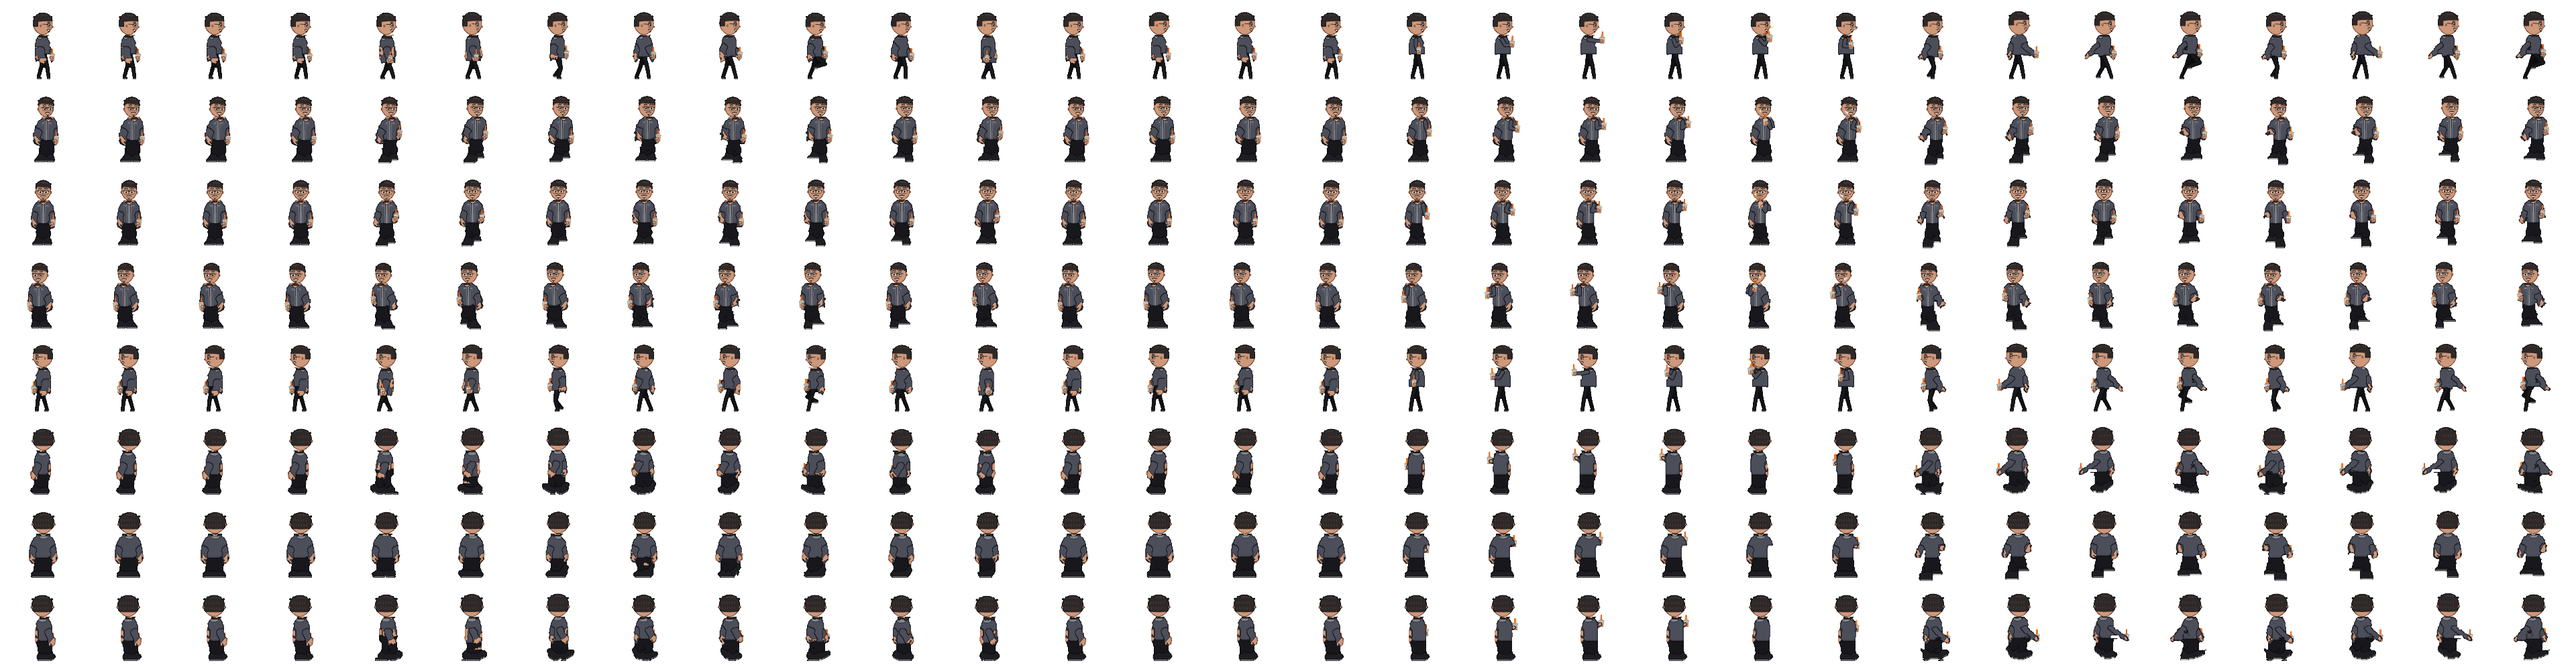
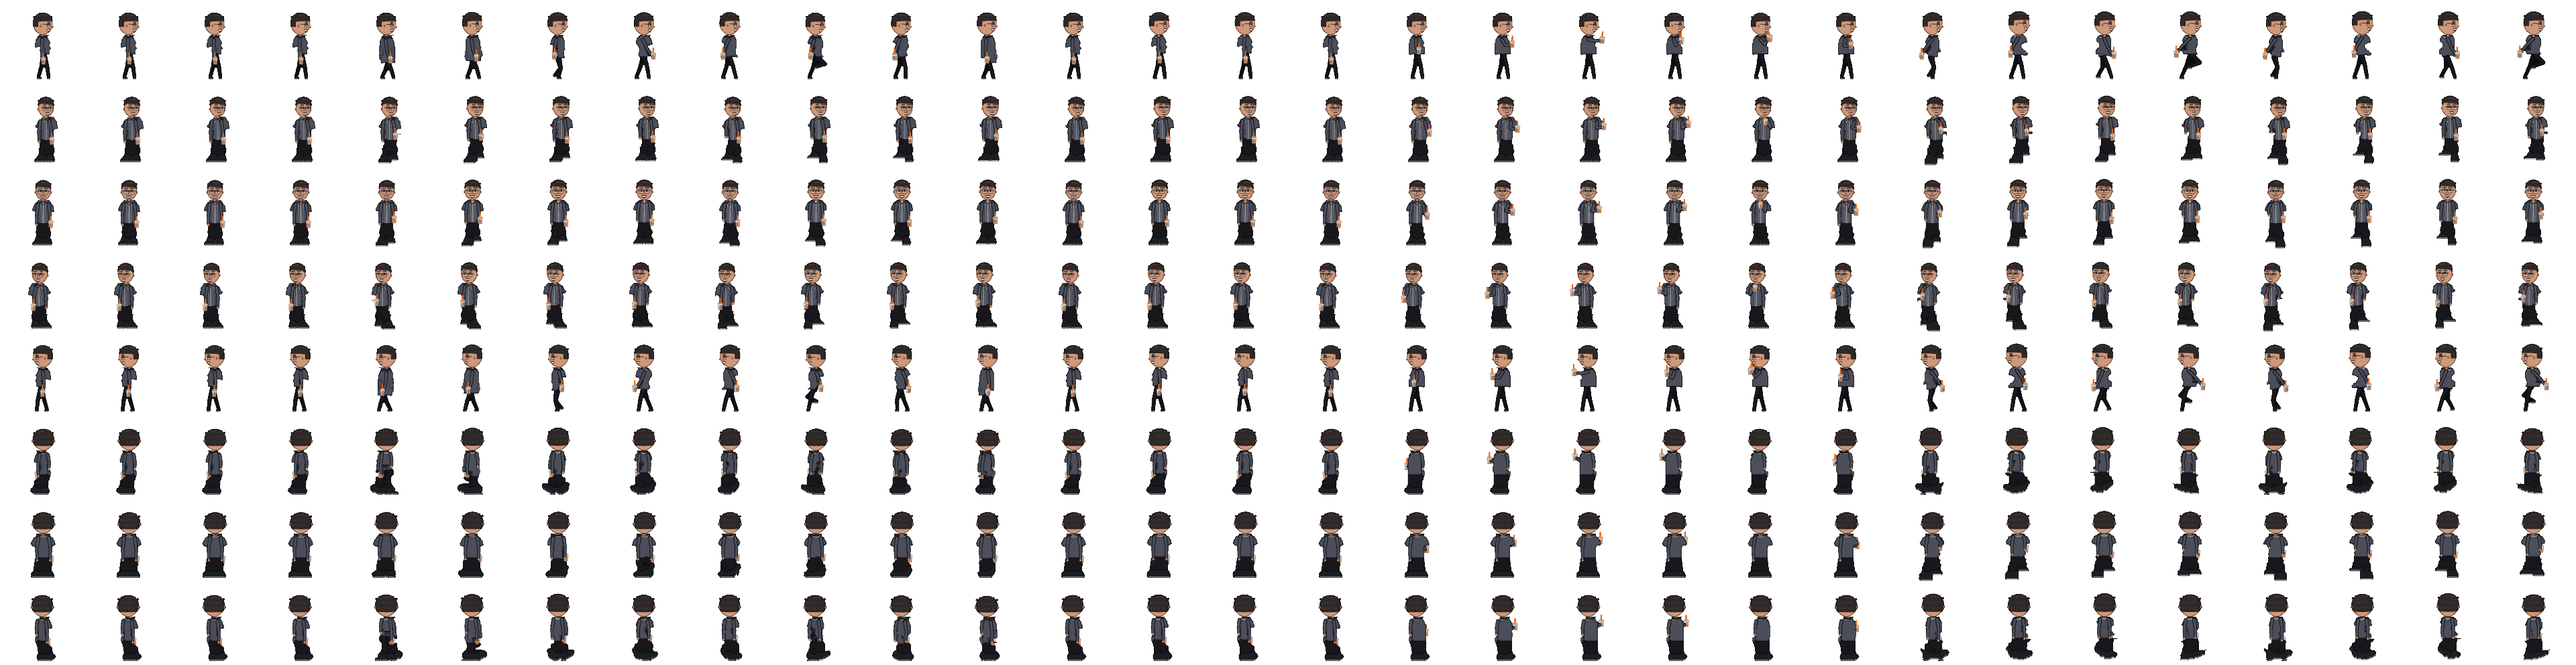
Billy: neck + clean shoulders, drawn natural sleeves, no puff/sparkle, slurp-only tag sound on the sip frame (450 ms), happy squint eyes, bigger smile, upper-lip mustache, no beard

diff --git a/phaser-tag-client/src/audio.ts b/phaser-tag-client/src/audio.ts
@@ -14,6 +14,9 @@
 
 import type { Mood, Settings } from "./settings";
 
+/** Billy's slurp lands on the sip frame of the tag animation (see "billySwing"). */
+export const BILLY_SLURP_DELAY_S = 0.45;
+
 export type Sfx = "swing" | "hit" | "join" | "leave" | "step" | "bananaStep" | "trexStep" | "tuxedoStep" | "pirateStep" | "pirateSwing" | "pharaohStep" | "pharaohSwing" | "spacemanStep" | "spacemanSwing" | "wizardStep" | "wizardSwing" | "centaurStep" | "centaurSwing" | "tennisStep" | "tennisSwing" | "cobraStep" | "cobraSwing" | "billySwing" | "click" | "blip" | "secret";
 
 const CROSSFADE_S = 1.5;
@@ -830,13 +833,18 @@ export class GameAudio {
         syn.noise(t + 0.12, { filter: "bandpass", freq: 1500, q: 3, gain: 0.14 * v, attack: 0.001, release: 0.04 });
         break;
       }
-      case "billySwing": { // Billy's tag: arm whoosh, then a gurgly straw slurp and a soft "ahh"
-        syn.noise(t, { filter: "bandpass", freq: 450, sweepTo: 2000, q: 1.2, gain: 0.22 * v, attack: 0.03, release: 0.12 });
-        for (let i = 0; i < 4; i++) {
-          const dt = 0.42 + i * 0.07 + Math.random() * 0.02;
-          syn.noise(t + dt, { filter: "bandpass", freq: 900 + i * 260, sweepTo: 1500 + i * 300, q: 3, gain: 0.1 * v, attack: 0.008, release: 0.05 });
+      case "billySwing": { // Billy's tag: just a straw slurp, on the frame the straw reaches his mouth
+        // Tag anim (src/kid.ts): 16 fps (62.5 ms/frame) + extra holds [0, 0, 30, 170, 30, 0] ms,
+        // so the sip frame (tag frame 4, sheet column 20) starts 62.5 + 62.5 + 92.5 + 232.5 = 450 ms in.
+        const s0 = t + BILLY_SLURP_DELAY_S;
+        // wet sucking hiss rising in pitch, broken into gurgles
+        syn.noise(s0, { filter: "bandpass", freq: 700, sweepTo: 1700, q: 2.5, gain: 0.12 * v, attack: 0.015, release: 0.22 });
+        for (let i = 0; i < 5; i++) {
+          const dt = i * 0.045 + Math.random() * 0.012;
+          syn.noise(s0 + dt, { filter: "bandpass", freq: 800 + i * 220, sweepTo: 1300 + i * 260, q: 4, gain: 0.11 * v, attack: 0.004, release: 0.035 });
         }
-        syn.tone(t + 0.78, 330, { type: "sine", gain: 0.035 * v, attack: 0.04, hold: 0.08, release: 0.18, glideTo: 250 });
+        // little air pop at the end as the straw clears
+        syn.noise(s0 + 0.24, { filter: "bandpass", freq: 2400, q: 3, gain: 0.07 * v, attack: 0.002, release: 0.03 });
         break;
       }
       case "pharaohSwing": { // Pharaoh James's tag: cloth whoosh plus a short muted horn (open fifth)

diff --git a/phaser-tag-client/tools/make_billy_skin.py b/phaser-tag-client/tools/make_billy_skin.py
@@ -18,8 +18,9 @@ Pipeline (same family as make_tennis_skin.py):
   * a clear iced coffee (tan coffee, ice, dome lid, orange straw, small
     orange/pink logo dot) in his near hand in every frame; on tag the near arm
     is redrawn as one solid limb from the shoulder: it reaches the cup out in
-    the facing direction, pulls it back, sips from the straw and lets out a
-    small "ahh" puff;
+    the facing direction, pulls it back and sips from the straw (tag frame 4;
+    no puff or sparkle). The other arms are drawn jacket sleeves from the
+    shoulders to James's hand positions, and a short neck joins head and collar;
   * box-downscaled to 1x and solidified (no holes).
 
 Requires: Python 3 + Pillow + numpy.  Usage:
@@ -412,7 +413,34 @@ def rebuild_head(L, rgb, union, direction, wp, eyes_o):
     hs = Image.fromarray((hair * 255).astype(np.uint8)).filter(ImageFilter.MaxFilter(3))
     hline = (np.asarray(hs) > 127) & ~hair & skinm & allm
     rgb[hline] = LINE
-    # the neck: chin line over the neck top
+    # the neck: a short skin column from under the jaw into the jacket
+    # collar; any other skin below the chin (James's warped shoulders) is
+    # jacket
+    below = (Yo > bot - 0.8) & ~allm
+    stray = below & (L == SKIN)
+    L[stray] = JACKET
+    rgb[stray] = COL[JACKET]
+    ncx = cx - fx * (0.6 if direction in PROFILE else -0.2)
+    nhw = 2.0 if direction in PROFILE else 2.5
+    J = np.isin(L, (JACKET, SLEEVE)) & (np.abs(Xo - ncx) < nhw)
+    jr = np.nonzero(J.any(1))[0]
+    jt = (jr[jr > S(bot - 2)].min() / SS) if (jr > S(bot - 2)).any() else bot + 2.5
+    if direction not in BACK:
+        neck_t = bot - 2.5
+        neck_b = max(jt + 1.2, bot + 1.6)
+        neck = (np.abs(Xo - ncx) < nhw) & (Yo > neck_t) & (Yo < neck_b) & ~allm
+        L[neck] = SKIN
+        union |= neck
+        rgb[neck] = COL[SKIN]
+        edge = neck & (np.abs(Xo - ncx) > nhw - 0.75)
+        rgb[edge] = SKIN_LINE
+        sh_ = neck & (Yo < bot + 1.3)
+        rgb[sh_ & ~edge] = SKIN_SHADE
+    else:
+        neck = (np.abs(Xo - ncx) < nhw) & (Yo > bot - 2.5) & (Yo < jt + 1.0) & ~allm & ~union
+        L[neck] = SKIN
+        union |= neck
+        rgb[neck] = SKIN_SHADE
     return allm
 
 
@@ -509,8 +537,8 @@ def smile_eye(d, ex, ey, hw, side=0, ry=1.9, half=False, fx=0):
     img = d._image
     n = 15
     ts = np.linspace(-1, 1, n)
-    up = [(ex + hw * t, ey - ry * (1 - t * t) ** 0.6 - 0.25 * side * t) for t in ts]
-    lo = [(ex + hw * t, ey + ry * 0.85 * (1 - t * t) ** 0.8 - 0.1 * side * t) for t in ts]
+    up = [(ex + hw * t, ey - ry * 1.05 * (1 - t * t) ** 0.6 - 0.2 * side * t) for t in ts]
+    lo = [(ex + hw * t, ey + ry * 0.15 - ry * 0.3 * (1 - t * t) ** 0.8 - 0.1 * side * t) for t in ts]
     poly = [(S(x), S(y)) for x, y in up + lo[::-1]]
     m = Image.new("L", img.size, 0)
     ImageDraw.Draw(m).polygon(poly, fill=255)
@@ -519,16 +547,20 @@ def smile_eye(d, ex, ey, hw, side=0, ry=1.9, half=False, fx=0):
     ld.polygon(poly, fill=(250, 248, 244, 255))
     ix = ex + (0.35 * fx if half else 0.15 * fx)
     r = ry * 0.62
-    ld.ellipse([S(ix - r), S(ey - r + 0.1), S(ix + r), S(ey + r + 0.1)], fill=(84, 52, 34, 255))
-    ld.ellipse([S(ix - r * 0.55), S(ey - r * 0.55 + 0.1), S(ix + r * 0.55), S(ey + r * 0.55 + 0.1)], fill=(16, 12, 12, 255))
-    ld.ellipse([S(ix - r * 0.55 - 0.15), S(ey - r * 0.6), S(ix - r * 0.55 + 0.45), S(ey - r * 0.6 + 0.6)], fill=(255, 255, 255, 255))
+    iy = ey - ry * 0.45
+    ld.ellipse([S(ix - r), S(iy - r), S(ix + r), S(iy + r)], fill=(84, 52, 34, 255))
+    ld.ellipse([S(ix - r * 0.55), S(iy - r * 0.55), S(ix + r * 0.55), S(iy + r * 0.55)], fill=(16, 12, 12, 255))
+    ld.ellipse([S(ix - r * 0.55 - 0.15), S(iy - r * 0.7), S(ix - r * 0.55 + 0.45), S(iy - r * 0.7 + 0.6)], fill=(255, 255, 255, 255))
     la = np.asarray(lay).copy()
     la[..., 3] = np.minimum(la[..., 3], np.asarray(m))
     img.alpha_composite(Image.fromarray(la, "RGBA"))
     d2 = ImageDraw.Draw(img)
     # bold soft upper lid, thin lower line
     d2.line([(S(x), S(y - 0.15)) for x, y in up], fill=EYE, width=max(1, int(S(0.75))), joint="curve")
-    d2.line([(S(x), S(y)) for x, y in lo[3:-3]], fill=SKIN_LINE, width=max(1, int(S(0.35))), joint="curve")
+    d2.line([(S(x), S(y + 0.1)) for x, y in lo[1:-1]], fill=EYE, width=max(1, int(S(0.5))), joint="curve")
+    # smiling cheek crease under the eye
+    d2.line([(S(ex + hw * t * 0.8), S(ey + ry * 0.75 - ry * 0.25 * (1 - t * t))) for t in ts[3:-3]],
+            fill=SKIN_LINE, width=max(1, int(S(0.35))), joint="curve")
 
 
 def draw_face(img, L, direction, eyes_o, wp, head_box):
@@ -579,19 +611,18 @@ def draw_face(img, L, direction, eyes_o, wp, head_box):
         tline(d, [(lx - hw_l, ey - 1.2), (max(x0 + 0.4, lx - hw_l - 2.4), ey - 1.5)], GLASS, 1.1)
         tline(d, [(rx + hw_r, ey - 1.2), (min(x1 - 0.4, rx + hw_r + 2.4), ey - 1.5)], GLASS, 1.1)
         # wide toothy smile
-        mw = 4.2 if fx == 0 else 3.6
+        mw = 5.0 if fx == 0 else 4.3
         def curve(y_end, y_mid, n=9):
             return [(mx + mw * t, my + y_end + (y_mid - y_end) * (1 - t * t)) for t in np.linspace(-1, 1, n)]
-        top_c = curve(-0.8, 0.1)
-        bot_c = curve(-0.8, 2.2)
-        mid_c = curve(-0.65, 1.05)
+        top_c = curve(-1.2, 0.0)
+        bot_c = curve(-1.2, 3.0)
+        mid_c = curve(-1.0, 1.3)
         d.polygon([(S(x), S(y)) for x, y in top_c + bot_c[::-1]], fill=MOUTH)
         d.polygon([(S(x), S(y)) for x, y in top_c + mid_c[::-1]], fill=TEETH)
         tline(d, bot_c[1:-1], SKIN_LINE, 0.4)
         # thin dark mustache, a small chin patch
-        tline(d, [(mx - mw * 1.0, my - 0.75), (mx - mw * 0.55, my - 1.35), (mx, my - 1.2),
-                  (mx + mw * 0.55, my - 1.35), (mx + mw * 1.0, my - 0.75)], STACHE, 1.35)
-        ell(d, mx, my + 3.5, 0.95, 0.65, STACHE)
+        st_c = [(x, y - 0.75) for x, y in curve(-1.05, 0.0, 11)[1:-1]]
+        tline(d, st_c, STACHE, 1.3)
         return (mx, my)
     # profile
     if not eyes_o:
@@ -618,12 +649,12 @@ def draw_face(img, L, direction, eyes_o, wp, head_box):
     # glasses arm back to the ear
     tline(d, [(ex - fx * 1.6, ey - 1.0), (wp.hcx_o + fx * 0.2, ey - 1.5)], GLASS, 0.9)
     # smile, mustache, chin patch
-    a0, a1 = sorted((mx, mx - fx * 3.4))
-    d.chord([S(a0), S(my - 1.3), S(a1), S(my + 2.0)], 0, 180, fill=MOUTH)
-    d.chord([S(a0 + 0.3), S(my - 1.2), S(a1 - 0.2), S(my + 1.0)], 0, 180, fill=TEETH)
-    tline(d, [(mx - fx * 3.0, my + 0.4), (mx - fx * 3.2, my - 0.1)], SKIN_LINE, 0.45)
-    tline(d, [(mx - fx * 3.6, my - 0.2), (mx - fx * 1.6, my - 1.3), (mx + fx * 0.4, my - 1.0)], STACHE, 1.3)
-    ell(d, mx - fx * 1.1, my + 3.2, 0.9, 0.72, STACHE)
+    a0, a1 = sorted((mx + fx * 0.2, mx - fx * 4.0))
+    d.chord([S(a0), S(my - 1.4), S(a1), S(my + 2.6)], 0, 180, fill=MOUTH)
+    d.chord([S(a0 + 0.3), S(my - 1.3), S(a1 - 0.2), S(my + 1.2)], 0, 180, fill=TEETH)
+    # upturned smile corner at the cheek
+    tline(d, [(mx - fx * 3.6, my + 0.6), (mx - fx * 4.3, my - 0.4)], SKIN_LINE, 0.45)
+    tline(d, [(mx - fx * 3.9, my - 0.9), (mx - fx * 1.8, my - 1.35), (mx + fx * 0.3, my - 1.1)], STACHE, 1.25)
     return (mx, my)
 
 
@@ -741,17 +772,32 @@ def straw_tip(c, tilt):
 
 
 def arm_layer(sh, hand, elbow):
-    skin = COL[SKIN]
+    """natural jacket sleeve: shoulder -> elbow -> cuff, the hand at the end"""
+    dx, dy = hand[0] - elbow[0], hand[1] - elbow[1]
+    dd = math.hypot(dx, dy) or 1.0
+    cuff = (hand[0] - dx / dd * 1.6, hand[1] - dy / dd * 1.6)
     parts = [
-        (capsule_fn(sh, 3.3, elbow, 3.0), COL[SLEEVE]),
-        (capsule_fn(elbow, 3.0, hand, 2.6), COL[SLEEVE]),
-        (disc_fn(hand, 2.3), skin),
+        (capsule_fn(sh, 2.7, elbow, 2.35), COL[SLEEVE]),
+        (capsule_fn(elbow, 2.35, cuff, 2.1), COL[SLEEVE]),
     ]
-    return shapes_layer((OH, OW), parts, LINE, 0.75)
+    return shapes_layer((OH, OW), parts, LINE, 0.7)
 
 
 def hand_layer(hand):
-    return shapes_layer((OH, OW), [(disc_fn(hand, 2.3), COL[SKIN])], SKIN_LINE, 0.6)
+    return shapes_layer((OH, OW), [(disc_fn(hand, 1.9), COL[SKIN])], SKIN_LINE, 0.6)
+
+
+def elbow_of(sh, hand, out_x):
+    """elbow for a relaxed arm of fixed segment length, bent outward/back"""
+    d = math.hypot(hand[0] - sh[0], hand[1] - sh[1]) or 1.0
+    seg = max(d / 2 + 0.05, 8.6)
+    a = d / 2
+    h = math.sqrt(max(0.0, seg * seg - a * a))
+    ux, uy = (hand[0] - sh[0]) / d, (hand[1] - sh[1]) / d
+    px, py = -uy, ux
+    if px * out_x < 0:
+        px, py = -px, -py
+    return (sh[0] + ux * a + px * h, sh[1] + uy * a + py * h)
 
 
 def puff_layer(p, side, alpha, spark=False):
@@ -814,6 +860,68 @@ def billyfy(src_f, direction, anim, col, meta, memo, wp, idle_f):
         f[~keep] = 0
         g = Geometry(f)
     lab = classify(f, g, direction, min(e[1] for e in ey_src) if ey_src else None)
+    # James's chunky warped arms are replaced by drawn sleeves: find his hands,
+    # drop the sleeve/hand labels (the jacket closes over the gap)
+    yy_ = np.mgrid[0:f.shape[0], 0:f.shape[1]][0]
+    _, hm_src = arms_and_hands(f, g, (yy_ <= g.neck + 1) & skin_mask(f))
+    hcomps = [c_ for c_ in components8(hm_src & (yy_ > g.neck + 3)) if c_.sum() >= 3]
+    hcent = []
+    for c_ in hcomps:
+        ys_, xs_ = np.nonzero(c_)
+        hcent.append((float(xs_.mean() + 0.5), float(ys_.max() - 0.5), int(c_.sum())))
+    arm_px = np.isin(lab, (SLEEVE, HAND))
+    xs_all = np.arange(f.shape[1])
+    lab = lab.copy()
+    jk = lab == JACKET
+    los, his = [], []
+    for y in range(g.neck + 3, g.hem):
+        if jk[y].any() and not arm_px[y].any():
+            los.append(xs_all[jk[y]].min()); his.append(xs_all[jk[y]].max())
+    if not los:
+        for y in range(g.neck + 3, g.hem):
+            if jk[y].any():
+                los.append(xs_all[jk[y]].min()); his.append(xs_all[jk[y]].max())
+    tlo, thi = (np.median(los), np.median(his)) if los else (g.head_cx - 6, g.head_cx + 6)
+    for y in range(f.shape[0]):
+        row = arm_px[y]
+        if not row.any():
+            continue
+        tor = jk[y] & (xs_all >= tlo - 1) & (xs_all <= thi + 1)
+        lab[y, row] = BG
+        lab[y, jk[y] & ~tor & (y > g.neck + 3)] = BG
+        if tor.any():
+            lo, hi = xs_all[tor].min(), xs_all[tor].max()
+            inside = row & (xs_all > lo) & (xs_all < hi)
+            lab[y, inside] = JACKET
+    # drop stray bits of James's arm outline left beside the body
+    comps_ = components8(lab > 0)
+    if comps_:
+        keep_ = max(comps_, key=lambda c_: c_.sum())
+        lab[(lab > 0) & ~keep_] = BG
+    free = []  # (shoulder_out, hand_out, outward_x, side)
+    sides = [0] if direction in PROFILE else [-1, 1]
+    for s_ in sides:
+        if tag and (s_ == side or direction in PROFILE):
+            continue
+        if direction in PROFILE:
+            sh_src = (g.head_cx - fx * 0.5, g.neck + 4.5)
+            cand = hcent
+        else:
+            sh_src = (g.head_cx + s_ * (6.6 if fx == 0 else ((5.4 if s_ * fx > 0 else 6.2) - (0.6 if direction in BACK else 0))), g.neck + 4.0)
+            cand = [h_ for h_ in hcent if s_ * (h_[0] - g.head_cx) > 2]
+        if cand:
+            hb = max(cand, key=lambda h_: h_[2])
+            hand_o = wp.pt((hb[0], hb[1] - 1.0))
+            memo[(direction, anim, s_, k)] = hand_o
+            memo[(direction, "hand", s_)] = hand_o
+        else:
+            hand_o = memo.get((direction, anim, s_, k), memo.get((direction, "hand", s_),
+                              wp.pt((g.head_cx + s_ * 8.5 - fx * 1.0, g.hem - 3))))
+        sh_o = wp.pt(sh_src)
+        if direction not in PROFILE:
+            hand_o = (sh_o[0] + s_ * min(1.8, max(0.8, s_ * (hand_o[0] - sh_o[0]))), hand_o[1])
+        out_x = s_ if direction not in PROFILE else -fx
+        free.append((sh_o, hand_o, out_x, s_))
     legs = []
     if direction in PROFILE:
         feet = feet_of(lab)
@@ -836,6 +944,13 @@ def billyfy(src_f, direction, anim, col, meta, memo, wp, idle_f):
             back = i == 0 if len(fo) == 2 and abs(fo[0][0] - fo[1][0]) > 1.5 else i == 0
             h_ = (hip_x + fx * (0.9 if not back else -0.9), hip_y)
             legs.append(pm(leg_layer(h_, (ft[0], min(ft[1], OBASE)), fx, back, L_leg)))
+    def draw_free_arms(free, _unused=0):
+        res = []
+        for sh_o, hand_o, out_x, s_ in free:
+            el = elbow_of(sh_o, hand_o, out_x)
+            res.append((s_, pm(arm_layer(sh_o, hand_o, el)), pm(hand_layer(hand_o)), hand_o))
+        return res
+
     L, union, rgb, lines = render_body(lab, wp)
     eyes = eyes_of(src_f if not tag else idle_f, g if not tag else Geometry(idle_f))
     eyes_o = [wp.pt((x, y)) + (ew,) for x, y, ew in eyes]
@@ -907,50 +1022,29 @@ def billyfy(src_f, direction, anim, col, meta, memo, wp, idle_f):
         arm = pm(arm_layer(sh, hand, elbow))
         cup = pm(cup_layer(c, tilt))
         handl = pm(hand_layer(hand))
+        for _, al, hl, _h in draw_free_arms(free):
+            out = over(over(out, al), hl)
         if behind:
             # back views: arm and cup behind the body
             res = over(over(over(cup, handl), arm), np.zeros_like(out))
-            out = over(res, pm(body))
+            out = over(res, out)
         else:
             out = over(over(over(out, arm), cup), handl)
-        if k == 4 and direction not in BACK:
-            if direction in PROFILE:
-                sp = (mouth[0] + fx * 6.5, mouth[1] - 4.5)
-            else:
-                sp = (mouth[0] - side * 6.5, mouth[1] - 3.5)
-            out = over(out, pm(puff_layer(sp, 1, 1.0, spark=True)))
-        if k == 5 and direction not in BACK:
-            if direction in PROFILE:
-                p = (mouth[0] + fx * 3.5, mouth[1] - 1.5)
-                ps = fx
-            else:
-                p = (mouth[0] - side * 5.0, mouth[1] - 1.0)
-                ps = -side
-            out = over(out, pm(puff_layer(p, ps, 0.8)))
     else:
-        yy = np.mgrid[0:f.shape[0], 0:f.shape[1]][0]
-        face_i = (yy <= g.neck + 1) & skin_mask(f)
-        _, hands = arms_and_hands(f, g, face_i)
-        a = alpha_mask(f)
-        pick = pick_hand(hands & (yy > g.neck + 1), g, side, a)
-        if pick is None:
-            hc = [c_ for c_ in components8(hands & (yy > g.neck + 1)) if c_.sum() >= 3]
-            if hc:
-                c_ = max(hc, key=lambda c_: (side * (np.nonzero(c_)[1].mean() - g.hip_cx), c_.sum()))
-                ys_, xs_ = np.nonzero(c_)
-                pick = (float(xs_.mean() + 0.5), float(ys_.mean() + 0.5), c_)
-        if pick is not None:
-            hand = wp.pt((pick[0], pick[1]))
-            memo[(direction, anim)] = hand
-        else:
-            hand = memo.get((direction, anim), memo.get((direction, "idle"), wp.pt((g.head_cx + side * 9, g.hem - 4))))
+        arms_l = draw_free_arms(free)
+        cup_i = 0
+        if direction not in PROFILE:
+            cup_i = max(range(len(arms_l)), key=lambda i: arms_l[i][0] == side)
+        hand = arms_l[cup_i][3]
         c = (hand[0] + (fx * 1.0 if direction in PROFILE else side * 1.4), hand[1] - 0.4)
         cup = pm(cup_layer(c))
-        handl = pm(hand_layer(hand))
         if behind:
-            out = over(over(cup, handl), out)
-        else:
-            out = over(over(out, cup), handl)
+            out = over(cup, out)
+        for i, (_, al, hl, _h) in enumerate(arms_l):
+            out = over(out, al)
+            if i == cup_i and not behind:
+                out = over(out, cup)
+            out = over(out, hl)
     res = to_u8(out)
     res[res[..., 3] < 8] = 0
     a = res[..., 3] > 40
